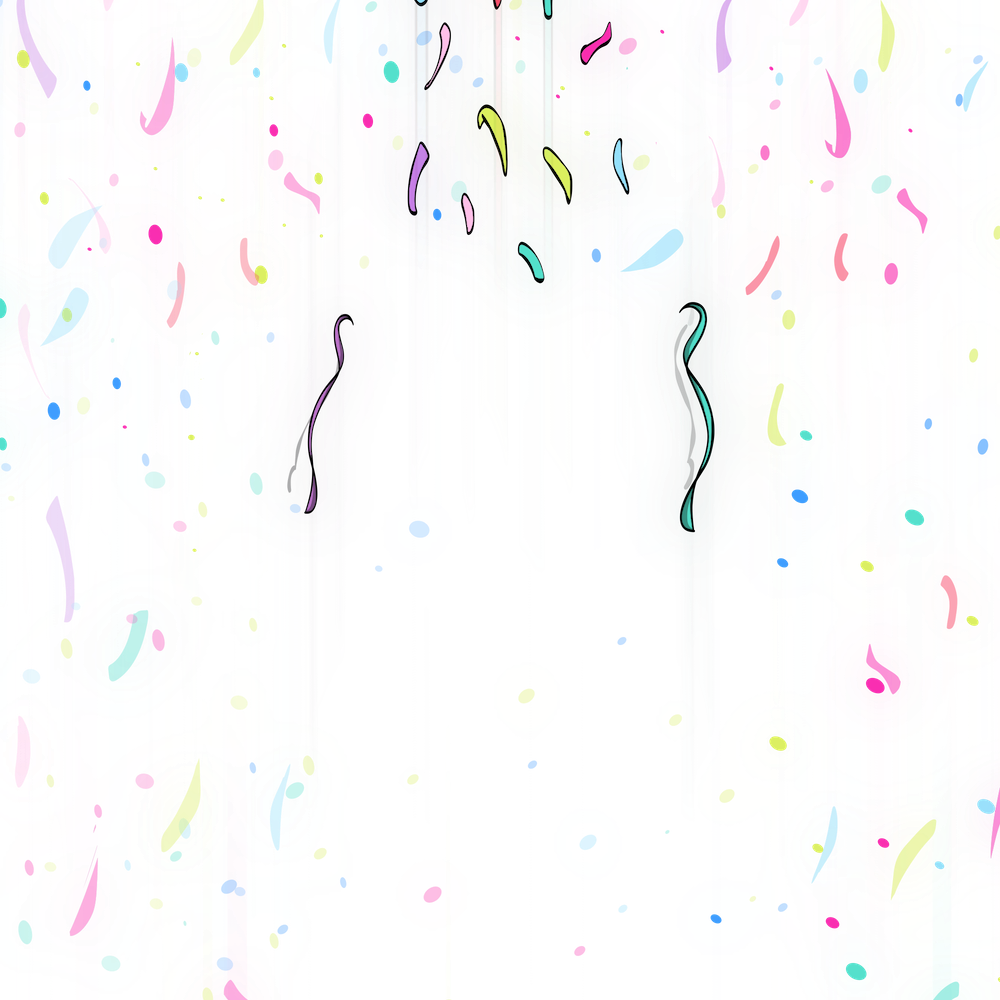
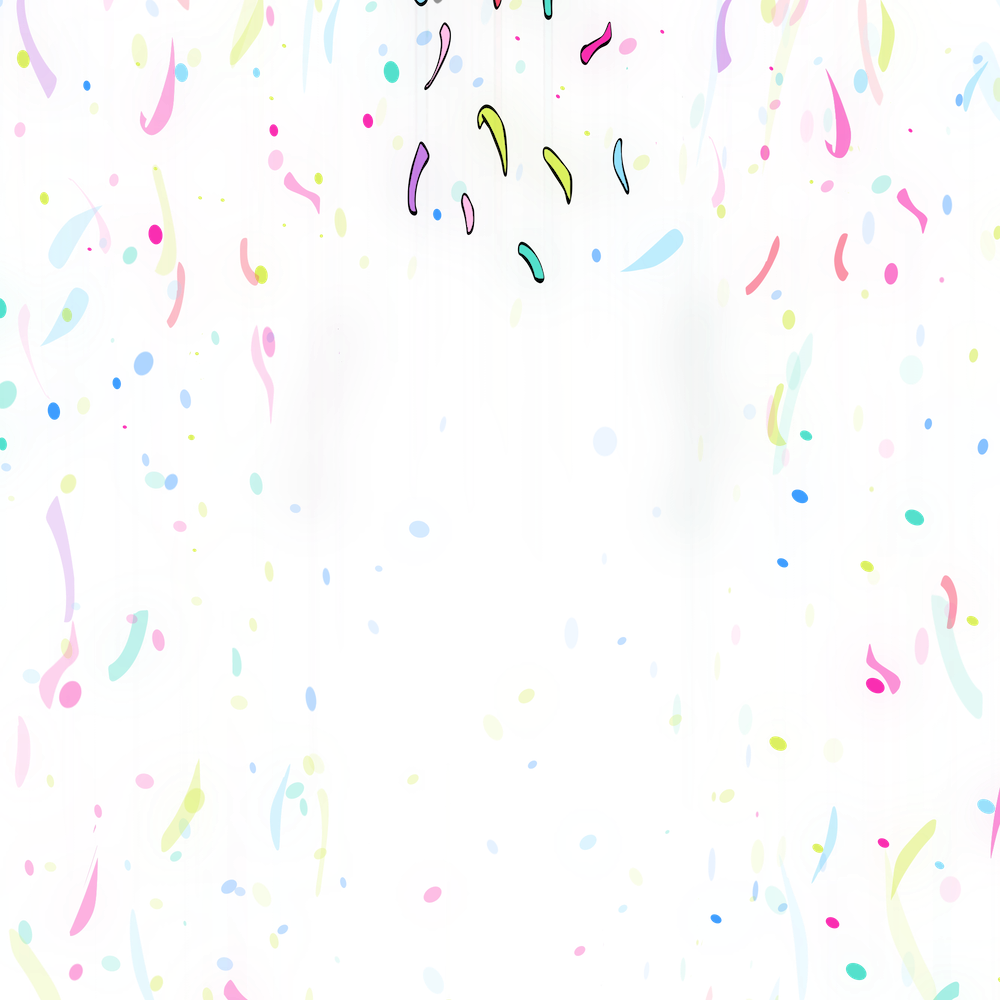
added new silvester traits

diff --git a/frontend/src/App.js b/frontend/src/App.js
@@ -268,8 +268,8 @@ function App() {
                         <option value="cheers">Cheers</option>
                         <option value="fireworks">Fireworks</option>
                         <option value="balloon_moon">2024 Balloon</option>
-                        <option value="apecoin_hands1">Apecoine Hands 1</option>
-                        <option value="apecoin_hands2">Apecoine Hands </option>
+                        <option value="apecoin_hands1">Apecoin Hands 1</option>
+                        <option value="apecoin_hands2">Apecoin Hands </option>
                         <option value="candle">Candle</option>
                         <option value="peace">Peace</option>
                         <option value="shoe">BAPE shoe</option>

diff --git a/backend/app.py b/backend/app.py
@@ -32,7 +32,7 @@ main_assets = {
     'apecoin_hands2': os.path.join(base_dir, 'memes', 'apecoin_hands2.png'),
     'shoe': os.path.join(base_dir, 'memes', 'bape_shoe.png'),
     'peace': os.path.join(base_dir, 'memes', 'peace.png'),
-    'ballon_moon': os.path.join(base_dir, 'memes', 'balloon_moon.png'),
+    'balloon_moon': os.path.join(base_dir, 'memes', 'balloon_moon.png'),
     'fireworks': os.path.join(base_dir, 'memes', 'fireworks.png')
     # Add more asset types here as needed
 }